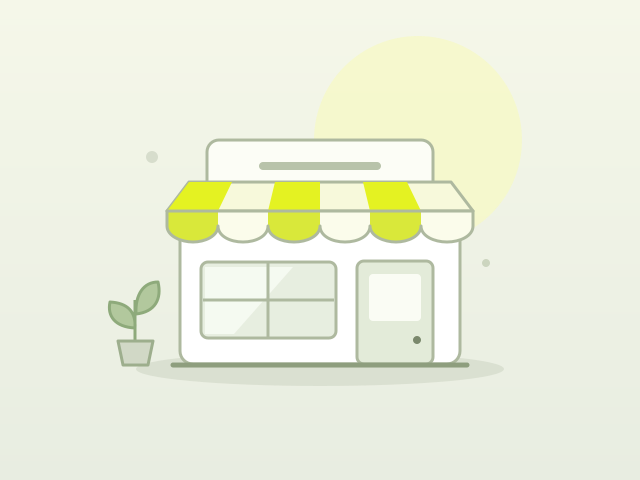
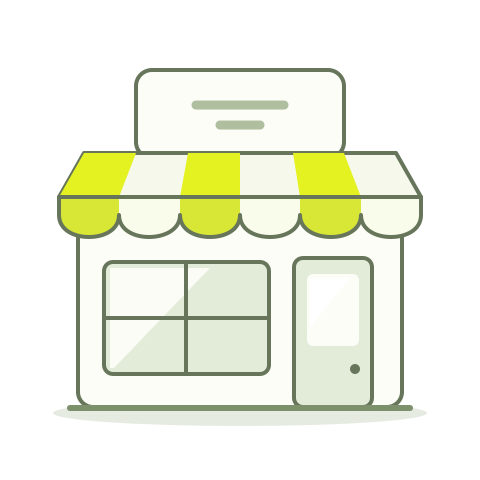
Fit category-specific shop placeholders inside mobile thumbnails

diff --git a/apps/mobile/app/(app)/leads/nearby.tsx b/apps/mobile/app/(app)/leads/nearby.tsx
@@ -34,6 +34,8 @@ type GeocodedLead = {
   isHot: boolean;
   isMine: boolean;
   photoUrl: string | null;
+  category: string | null;
+  kind: string | null;
   submitterName: string | null;
   submitterImage: string | null;
   latitude: number;
@@ -121,14 +123,14 @@ function ShopPin({
   onPress: () => void;
 }) {
   const [imageRevision, setImageRevision] = useState(0);
-  const track = useBriefTracking(`${selected}-${lead.photoUrl ?? ''}-${imageRevision}`);
+  const track = useBriefTracking(`${selected}-${lead.photoUrl ?? ''}-${lead.category ?? ''}-${lead.kind ?? ''}-${imageRevision}`);
   const imageFinished = useCallback(() => setImageRevision(value => value + 1), []);
   const live = isLiveOrYours(lead);
   const size = selected ? PIN_SELECTED : PIN;
 
   const photo = (box: number) => (
     <View style={[styles.photo, { width: box, height: box, borderRadius: box / 2 }]}>
-      <ShopImage uri={lead.photoUrl} name={lead.businessName} width={box} height={box} borderRadius={box / 2}
+      <ShopImage uri={lead.photoUrl} name={lead.businessName} category={lead.category} kind={lead.kind} width={box} height={box} borderRadius={box / 2}
         decorative onLoad={imageFinished} onError={imageFinished} />
     </View>
   );
@@ -202,14 +204,14 @@ function MeDot({ coordinate }: { coordinate: { latitude: number; longitude: numb
   );
 }
 
-function ShopTile({ uri, name, width, height }: { uri: string | null; name: string; width: number; height: number }) {
+function ShopTile({ uri, name, category, kind, width, height }: { uri: string | null; name: string; category: string | null; kind: string | null; width: number; height: number }) {
   return (
     <View
       style={[styles.tile, { width, height }]}
       accessibilityElementsHidden
       importantForAccessibility="no-hide-descendants"
     >
-      <ShopImage uri={uri} name={name} width="100%" height="100%" borderRadius={0} decorative />
+      <ShopImage uri={uri} name={name} category={category} kind={kind} width="100%" height="100%" borderRadius={0} decorative />
     </View>
   );
 }
@@ -258,6 +260,8 @@ export default function NearbyLeadsScreen() {
         isHot: !!l.isHot,
         isMine: !!l.isMine,
         photoUrl: (l.previewImageUrl as string | null | undefined) ?? null,
+        category: l.businessCategory?.trim() || l.businessType?.trim() || null,
+        kind: l.communityKind ?? null,
         submitterName: l.submittedBy?.displayName ?? null,
         submitterImage: l.submittedBy?.profileImage ?? null,
         addressString: fullAddress({ businessAddress: l.businessAddress, businessCity: l.businessCity }),
@@ -274,6 +278,8 @@ export default function NearbyLeadsScreen() {
         isHot: boolean;
         isMine: boolean;
         photoUrl: string | null;
+        category: string | null;
+        kind: string | null;
         submitterName: string | null;
         submitterImage: string | null;
         addressString: string | null;
@@ -312,6 +318,8 @@ export default function NearbyLeadsScreen() {
               isHot: l.isHot,
               isMine: l.isMine,
               photoUrl: l.photoUrl,
+              category: l.category,
+              kind: l.kind,
               submitterName: l.submitterName,
               submitterImage: l.submitterImage,
               latitude: m.latitude,
@@ -523,7 +531,7 @@ export default function NearbyLeadsScreen() {
                       cssInterop={false}
                       style={({ pressed }) => [styles.scard, shadow.soft, pressed ? { opacity: 0.85 } : null]}
                     >
-                      <ShopTile uri={lead.photoUrl} name={lead.businessName} width={184} height={104} />
+                      <ShopTile uri={lead.photoUrl} name={lead.businessName} category={lead.category} kind={lead.kind} width={184} height={104} />
                       <Text variant="body" weight="bold" numberOfLines={1} style={styles.scardTitle}>
                         {lead.businessName}
                       </Text>
@@ -557,7 +565,7 @@ function ActiveShop({
   return (
     <View style={styles.active}>
       <View style={styles.activeTop}>
-        <ShopTile uri={lead.photoUrl} name={lead.businessName} width={104} height={128} />
+        <ShopTile uri={lead.photoUrl} name={lead.businessName} category={lead.category} kind={lead.kind} width={104} height={128} />
         <View style={styles.activeText}>
           <Text variant="heading" numberOfLines={2}>
             {lead.businessName}

diff --git a/apps/mobile/__tests__/field-agent-lead-detail.test.tsx b/apps/mobile/__tests__/field-agent-lead-detail.test.tsx
@@ -3,6 +3,8 @@ import { BackHandler, Linking } from 'react-native';
 import { act, fireEvent, render, waitFor } from '@testing-library/react-native';
 import LeadDetailScreen from '../app/(app)/leads/[leadId]';
 import { Button } from '../components/v2';
+import { ShopImage } from '../components/ShopImage';
+import { getShopPlaceholder } from '../services/shopPlaceholder';
 import type { MapSearchArea } from '../services/workArea';
 
 const mockRouter = { push: jest.fn(), replace: jest.fn(), back: jest.fn(), canGoBack: jest.fn() };
@@ -70,6 +72,7 @@ function communityDetail() {
     },
     business: null, notes: [], interviewers: [], isMine: true, submittedBy: null, adminContent: null,
     photoUrl: 'https://images.example.com/shop.jpg', needsWebsite: true, hasLiveWebsite: false,
+    communityKind: 'sari_sari',
     websiteUrl: null, businessWebsite: null, claimedBy: null, claimExpiresAt: null,
     businessLatitude: 14.65, businessLongitude: 121.10,
     spottedBy: { creatorId: 'spotter-1', displayName: 'Ana S.', profileImage: null },
@@ -217,18 +220,21 @@ it.each([false, undefined])('does not render raw capture media without explicit 
   mockDetail.photoUrl = null;
   screen.rerender(<LeadDetailScreen />);
   expect(screen.queryByLabelText('Nena Store photo')).toBeNull();
-  expect(screen.getByLabelText('Nena Store photo unavailable').props.source).toEqual(require('../assets/placeholders/shop.png'));
+  expect(screen.getByLabelText('Nena Store photo unavailable').props.source).toEqual(getShopPlaceholder('Sari-sari', 'sari_sari'));
 });
 
 it('uses the local placeholder after a public photo fails without exposing capture media, then recovers on a new photo URL', () => {
   mockDetail.canViewCaptureMedia = false;
+  mockDetail.lead.businessCategory = 'Barber shop';
+  mockDetail.communityKind = 'beauty';
   mockDetail.business = {
-    businessName: 'Nena Store', ownerName: 'Nena', ownerPhone: '09171234567',
+    businessName: 'Nena Store', businessType: 'Services', ownerName: 'Nena', ownerPhone: '09171234567',
     photos: ['https://media.example.com/private-owner.jpg'], status: 'submitted',
   };
   const screen = render(<LeadDetailScreen />);
+  expect(screen.UNSAFE_getByType(ShopImage).props).toMatchObject({ category: 'Barber shop', kind: 'beauty' });
   fireEvent(screen.getByLabelText('Nena Store photo'), 'error', { nativeEvent: { error: 'Photo unavailable' } });
-  expect(screen.getByLabelText('Nena Store photo unavailable').props.source).toEqual(require('../assets/placeholders/shop.png'));
+  expect(screen.getByLabelText('Nena Store photo unavailable').props.source).toEqual(getShopPlaceholder('Barber shop', 'beauty'));
   expect(screen.queryByLabelText('Shop photo 1')).toBeNull();
   expect(screen.getByRole('header', { name: 'Nena Store' })).toBeTruthy();
   mockDetail.photoUrl = 'https://images.example.com/new-shop-photo.jpg';
@@ -236,6 +242,16 @@ it('uses the local placeholder after a public photo fails without exposing captu
   expect(screen.getByLabelText('Nena Store photo').props.source.uri).toBe(mockDetail.photoUrl);
   expect(screen.queryByLabelText('Nena Store photo unavailable')).toBeNull();
   expect(screen.queryByLabelText('Shop photo 1')).toBeNull();
+});
+
+it('uses the saved CRM category and coarse kind when a shop has no finer detail category', () => {
+  mockDetail.photoUrl = null;
+  mockDetail.lead.businessCategory = null;
+  mockDetail.communityKind = null;
+  mockCrm.leads[0] = { _id: 'lead-1', businessType: 'Auto repair', communityKind: 'repair' };
+  const screen = render(<LeadDetailScreen />);
+  expect(screen.UNSAFE_getByType(ShopImage).props).toMatchObject({ category: 'Auto repair', kind: 'repair' });
+  expect(screen.getByLabelText('Nena Store photo unavailable').props.source).toEqual(getShopPlaceholder('Auto repair', 'repair'));
 });
 
 it('keeps capture photos available in detail when the server explicitly permits the capturing agent or admin', () => {

diff --git a/apps/mobile/__tests__/community-finds-range.test.tsx b/apps/mobile/__tests__/community-finds-range.test.tsx
@@ -3,6 +3,7 @@ import { Image } from 'react-native';
 import { fireEvent, render } from '@testing-library/react-native';
 import { CommunityFinds } from '../components/field-agent/CommunityFinds';
 import { ShopImage } from '../components/ShopImage';
+import { getShopPlaceholder } from '../services/shopPlaceholder';
 import type { CommunityFind } from '../services/fieldAgentMap';
 import type { MapSearchArea } from '../services/workArea';
 
@@ -159,18 +160,28 @@ it('preserves the authenticated query guard while a distance choice changes', ()
 });
 
 it('shows a local storefront for missing/failed photos while preserving card navigation and recovering updated photos', () => {
-  mockLeads = [{ ...find('photo-shop', 0.5, 'Ramon Shop'), photoUrl: 'https://images.example.com/ramon.jpg' },
-    find('missing-photo', 0.6, 'Nena Store')];
+  mockLeads = [{ ...find('photo-shop', 0.5, 'Ramon Shop'), businessType: 'Barber shop', communityKind: 'beauty', photoUrl: 'https://images.example.com/ramon.jpg' },
+    { ...find('missing-photo', 0.6, 'Nena Store'), businessType: 'Sari-sari', communityKind: 'sari_sari' }];
   const screen = render(<CommunityFinds />);
   const tileImage = (name: string) => screen.UNSAFE_getAllByType(ShopImage).find(node => node.props.name === name)!;
-  expect(tileImage('Nena Store').findByType(Image).props.source).toEqual(require('../assets/placeholders/shop.png'));
+  expect(tileImage('Ramon Shop').props).toMatchObject({ category: 'Barber shop', kind: 'beauty' });
+  expect(tileImage('Nena Store').props).toMatchObject({ category: 'Sari-sari', kind: 'sari_sari' });
+  expect(tileImage('Nena Store').findByType(Image).props.source).toEqual(getShopPlaceholder('Sari-sari', 'sari_sari'));
   expect(tileImage('Ramon Shop').findByType(Image).props.source.uri).toBe('https://images.example.com/ramon.jpg');
   fireEvent(tileImage('Ramon Shop').findByType(Image), 'error', { nativeEvent: { error: 'Photo unavailable' } });
-  expect(tileImage('Ramon Shop').findByType(Image).props.source).toEqual(require('../assets/placeholders/shop.png'));
+  expect(tileImage('Ramon Shop').findByType(Image).props.source).toEqual(getShopPlaceholder('Barber shop', 'beauty'));
   fireEvent.press(screen.getByRole('button', { name: /^Ramon Shop,/ }));
   expect(mockPush).toHaveBeenCalledWith('/(app)/leads/photo-shop');
   mockLeads = mockLeads.map(lead => lead._id === 'photo-shop' ? { ...lead, photoUrl: 'https://images.example.com/replaced.jpg' } : lead);
   screen.rerender(<CommunityFinds />);
   expect(tileImage('Ramon Shop').findByType(Image).props.source.uri).toBe('https://images.example.com/replaced.jpg');
   expect(screen.getByRole('button', { name: /^Nena Store,/ })).toBeTruthy();
+});
+
+it('uses stored category metadata even when a business name suggests a different kind of shop', () => {
+  mockLeads = [{ ...find('repair', 0.5, 'Barber Food Store'), businessType: 'Auto repair', communityKind: 'repair' }];
+  const screen = render(<CommunityFinds />);
+  const image = screen.UNSAFE_getByType(ShopImage);
+  expect(image.props).toMatchObject({ category: 'Auto repair', kind: 'repair', name: 'Barber Food Store' });
+  expect(image.findByType(Image).props.source).toEqual(getShopPlaceholder('Auto repair', 'repair'));
 });

diff --git a/apps/mobile/components/field-agent/FieldAgentMap.tsx b/apps/mobile/components/field-agent/FieldAgentMap.tsx
@@ -445,19 +445,18 @@ export function FieldAgentMap({ creator, userImage, monthlyEarnings, unreadCount
 }
 
 function ShopPhoto({ shop, width, height }: { shop: FieldAgentShop; width: number; height: number }) {
-  return <ShopImage uri={shop.photoUrl} name={shop.name} width={width} height={height} decorative />;
+  return <ShopImage uri={shop.photoUrl} name={shop.name} category={shop.category} kind={shop.kind} width={width} height={height} decorative />;
 }
 
 function PhotoPin({ shop, selected, onPress }: { shop: FieldAgentShop; selected: boolean; onPress: () => void }) {
   const [tracking, setTracking] = useState(true);
-  const [failed, setFailed] = useState(false);
-  const [loaded, setLoaded] = useState(false);
-  useEffect(() => { setFailed(false); setLoaded(false); }, [shop.photoUrl]);
+  const [imageRevision, setImageRevision] = useState(0);
+  const imageFinished = useCallback(() => setImageRevision(value => value + 1), []);
   useEffect(() => {
     setTracking(true);
     const timer = setTimeout(() => setTracking(false), 800);
     return () => clearTimeout(timer);
-  }, [shop.photoUrl, selected, shop.isMine, failed, loaded]);
+  }, [shop.photoUrl, shop.category, shop.kind, selected, shop.isMine, imageRevision]);
   const size = selected ? 60 : 48;
   return <Marker coordinate={{ latitude: shop.latitude, longitude: shop.longitude }}
     onPress={(event) => { event.stopPropagation(); onPress(); }}
@@ -467,8 +466,8 @@ function PhotoPin({ shop, selected, onPress }: { shop: FieldAgentShop; selected:
       <View style={[styles.pin, { width: size, height: size, borderRadius: size / 2 },
         selected ? styles.pinSelected : shop.isMine || shop.hasLiveWebsite ? styles.pinYours : shop.needsWebsite === true ? styles.pinNeed : styles.pinUnknown]}>
         <View style={[styles.pinPhoto, { width: size - 10, height: size - 10, borderRadius: (size - 10) / 2 }]}>
-          <ShopImage uri={shop.photoUrl} name={shop.name} width={size - 10} height={size - 10} borderRadius={0}
-            decorative onLoad={() => setLoaded(true)} onError={() => setFailed(true)} />
+          <ShopImage uri={shop.photoUrl} name={shop.name} category={shop.category} kind={shop.kind} width={size - 10} height={size - 10} borderRadius={0}
+            decorative onLoad={imageFinished} onError={imageFinished} />
         </View>
       </View>
       {selected ? <View style={styles.pinLabel}><Text variant="label" tone="onDark" numberOfLines={1}>{shop.name}</Text></View> : null}

diff --git a/apps/mobile/__tests__/shop-placeholder.test.ts b/apps/mobile/__tests__/shop-placeholder.test.ts
@@ -1,0 +1,43 @@
+import { getShopPlaceholder, shopPlaceholderKind } from '../services/shopPlaceholder';
+
+jest.mock('../assets/placeholders/barber.png', () => ({ uri: 'placeholder:barber' }));
+jest.mock('../assets/placeholders/food.png', () => ({ uri: 'placeholder:food' }));
+jest.mock('../assets/placeholders/sari-sari.png', () => ({ uri: 'placeholder:sari_sari' }));
+jest.mock('../assets/placeholders/beauty.png', () => ({ uri: 'placeholder:beauty' }));
+jest.mock('../assets/placeholders/repair.png', () => ({ uri: 'placeholder:repair' }));
+jest.mock('../assets/placeholders/shop.png', () => ({ uri: 'placeholder:other' }));
+
+it.each([
+  ['Barbershop', 'beauty', 'barber'],
+  ['BARBER SHOP', 'other', 'barber'],
+  ['Barber/Salon', undefined, 'barber'],
+  ['Hair salon', undefined, 'beauty'],
+  ['Nail Salon', 'other', 'beauty'],
+  ['Spa/Massage', undefined, 'beauty'],
+  ['Food shop', 'other', 'food'],
+  ['Restaurant', 'beauty', 'food'],
+  ['Café', undefined, 'food'],
+  ['Coffee shop', undefined, 'food'],
+  ['Bakery', undefined, 'food'],
+  ['Bakeshop', undefined, 'food'],
+  ['Carinderia', undefined, 'food'],
+  ['Sari-sari store', undefined, 'sari_sari'],
+  ['sari_sari', undefined, 'sari_sari'],
+  ['Grocery', undefined, 'sari_sari'],
+  ['Convenience store', undefined, 'sari_sari'],
+  ['Mini mart', undefined, 'sari_sari'],
+  ['Auto Shop', undefined, 'repair'],
+  ['Auto repair', undefined, 'repair'],
+  ['Car wash', undefined, 'repair'],
+  ['Vulcanizing shop', undefined, 'repair'],
+  ['Other', 'beauty', 'other'],
+  ['Unclassified', 'food', 'food'],
+  [null, 'sari_sari', 'sari_sari'],
+  ['', 'beauty', 'beauty'],
+  [undefined, 'repair', 'repair'],
+  ['Unknown category', undefined, 'other'],
+  [undefined, undefined, 'other'],
+])('selects %s with fallback %s as %s', (category, kind, expected) => {
+  expect(shopPlaceholderKind(category, kind)).toBe(expected);
+  expect(getShopPlaceholder(category, kind)).toEqual({ uri: `placeholder:${expected}` });
+});

diff --git a/apps/mobile/services/shopPlaceholder.ts b/apps/mobile/services/shopPlaceholder.ts
@@ -1,0 +1,33 @@
+import type { ImageSourcePropType } from 'react-native';
+
+export type ShopPlaceholderKind = 'barber' | 'food' | 'sari_sari' | 'beauty' | 'repair' | 'other';
+
+function recognizedCategory(value?: string | null): ShopPlaceholderKind | null {
+  const category = (value ?? '').normalize('NFD').replace(/[\u0300-\u036f]/g, '').toLowerCase().replace(/[_-]+/g, ' ').replace(/\s+/g, ' ').trim();
+  if (!category) return null;
+  // Keep specific trades ahead of broader buckets such as "beauty".
+  if (/\b(barber\w*|barbero)\b/.test(category)) return 'barber';
+  if (/\b(food|restaurant|cafe|coffee|bakery|bakeshop|eatery|carinderia|karinderya|canteen|fast food)\b/.test(category)) return 'food';
+  if (/\b(sari\s*sari|grocery|convenience|mini\s*mart|supermarket|general store)\b/.test(category) || category === 'store') return 'sari_sari';
+  if (/\b(beauty|salon|hair\w*|nail\w*|spa)\b/.test(category)) return 'beauty';
+  if (/\b(repair|auto\w*|mechanic\w*|car\s*wash|vulcaniz\w*|tire\w*|tyre\w*)\b/.test(category)) return 'repair';
+  return category === 'other' ? 'other' : null;
+}
+
+/** Stored category wins over the broader kind; business names never determine the art. */
+export function shopPlaceholderKind(category?: string | null, kind?: string | null): ShopPlaceholderKind {
+  return recognizedCategory(category) ?? recognizedCategory(kind) ?? 'other';
+}
+
+const SOURCES: Record<ShopPlaceholderKind, ImageSourcePropType> = {
+  barber: require('../assets/placeholders/barber.png'),
+  food: require('../assets/placeholders/food.png'),
+  sari_sari: require('../assets/placeholders/sari-sari.png'),
+  beauty: require('../assets/placeholders/beauty.png'),
+  repair: require('../assets/placeholders/repair.png'),
+  other: require('../assets/placeholders/shop.png'),
+};
+
+export function getShopPlaceholder(category?: string | null, kind?: string | null): ImageSourcePropType {
+  return SOURCES[shopPlaceholderKind(category, kind)];
+}

diff --git a/apps/mobile/components/ShopImage.tsx b/apps/mobile/components/ShopImage.tsx
@@ -1,11 +1,13 @@
 import React, { useState } from 'react';
 import { Image, StyleSheet, View, type DimensionValue, type StyleProp, type ViewStyle } from 'react-native';
 import { colors } from '../theme/v2';
+import { getShopPlaceholder } from '../services/shopPlaceholder';
 
-const PLACEHOLDER = require('../assets/placeholders/shop.png');
 type Props = {
   uri?: string | null;
   name?: string;
+  category?: string | null;
+  kind?: string | null;
   width?: DimensionValue;
   height?: DimensionValue;
   borderRadius?: number;
@@ -22,12 +24,12 @@ export function ShopImage(props: Props) {
   return <ShopImageContent key={uri ?? 'no-photo'} {...props} uri={uri} />;
 }
 
-function ShopImageContent({ uri, name = 'Shop', width = '100%', height = '100%', borderRadius = 16, style, decorative = false, onLoad, onError }: Props) {
+function ShopImageContent({ uri, name = 'Shop', category, kind, width = '100%', height = '100%', borderRadius = 16, style, decorative = false, onLoad, onError }: Props) {
   const [failed, setFailed] = useState(false);
   const fallback = !uri || failed;
   return <View style={[styles.frame, { width, height, borderRadius }, style]}
     accessibilityElementsHidden={decorative} importantForAccessibility={decorative ? 'no-hide-descendants' : 'auto'}>
-    <Image source={fallback ? PLACEHOLDER : { uri }} style={StyleSheet.absoluteFill} resizeMode="cover"
+    <Image source={fallback ? getShopPlaceholder(category, kind) : { uri }} style={StyleSheet.absoluteFill} resizeMode={fallback ? 'contain' : 'cover'}
       accessible={!decorative} accessibilityRole="image" accessibilityLabel={`${name} ${fallback ? 'photo unavailable' : 'photo'}`}
       onLoad={onLoad} onError={() => { if (!fallback) { setFailed(true); onError?.(); } }} />
   </View>;

diff --git a/apps/mobile/app/(app)/leads/[leadId].tsx b/apps/mobile/app/(app)/leads/[leadId].tsx
@@ -304,6 +304,8 @@ export default function LeadDetailScreen() {
   const canViewCaptureMedia = detail.canViewCaptureMedia === true;
   const heroUri: string | null = detail.photoUrl || adminContent?.previewImageUrl
     || (canViewCaptureMedia ? business?.photos?.[0] : null) || null;
+  const heroCategory: string | null = lead.businessCategory?.trim() || business?.businessType?.trim() || crmLead?.businessType?.trim() || null;
+  const heroKind: string | null = detail.communityKind ?? lead.communityKind ?? crmLead?.communityKind ?? null;
   const status = STATUS_OPTIONS.find((option) => option.key === lead.status)
     ?? { label: 'Status unavailable', tone: 'muted' as const };
   const hasLiveWebsite = typeof detail.hasLiveWebsite === 'boolean' ? detail.hasLiveWebsite
@@ -368,7 +370,7 @@ export default function LeadDetailScreen() {
       ) : null}
       {/* Public/authorized photo, or the shared local placeholder, with the status chip. */}
       <View style={styles.hero}>
-        <ShopImage uri={heroUri} name={shopName} width="100%" height="100%" borderRadius={0} />
+        <ShopImage uri={heroUri} name={shopName} category={heroCategory} kind={heroKind} width="100%" height="100%" borderRadius={0} />
         <Chip label={heroLabel} tone={hasLiveWebsite || detail.needsWebsite === true ? 'ok' : status.tone} style={styles.heroChip} />
       </View>
 

diff --git a/apps/mobile/__tests__/shop-image.test.tsx b/apps/mobile/__tests__/shop-image.test.tsx
@@ -16,9 +16,17 @@ it('replaces a broken remote photo locally without retrying the broken URL', () 
   const fallback = screen.getByLabelText('Mika’s shop photo unavailable');
   expect(fallback.props.source).toEqual(placeholder);
   expect(onError).toHaveBeenCalledTimes(1);
+  expect(fallback.props.resizeMode).toBe('contain');
   fireEvent(fallback, 'error', { nativeEvent: { error: 'Unexpected local error' } });
   expect(onError).toHaveBeenCalledTimes(1);
   expect(screen.getByLabelText('Mika’s shop photo unavailable').props.source).toEqual(placeholder);
+});
+
+it('fits placeholder art inside the thumbnail while keeping real photos edge to edge', () => {
+  const screen = render(<ShopImage name="Shop" width={184} height={100} category="Barbershop" />);
+  expect(screen.getByLabelText('Shop photo unavailable').props.resizeMode).toBe('contain');
+  screen.rerender(<ShopImage name="Shop" width={184} height={100} uri="https://example.com/shop.jpg" category="Barbershop" />);
+  expect(screen.getByLabelText('Shop photo').props.resizeMode).toBe('cover');
 });
 
 it('loads a newly supplied photo after the old URL failed', () => {

diff --git a/apps/mobile/components/field-agent/CommunityFinds.tsx b/apps/mobile/components/field-agent/CommunityFinds.tsx
@@ -108,7 +108,8 @@ function FindTile({ lead, imageHeight, distanceLabel, onPress }: {
       accessibilityLabel={`${lead.businessName || 'Shop'}, ${label}${person ? `, spotted by ${person.displayName}` : ''}`}
       cssInterop={false} style={({ pressed }) => [styles.tile, pressed ? { opacity: 0.75 } : null]}>
       <View style={[styles.photo, { height: imageHeight }]}>
-        <ShopImage uri={photo} name={lead.businessName || 'Shop'} width="100%" height="100%" borderRadius={0} decorative />
+        <ShopImage uri={photo} name={lead.businessName || 'Shop'} category={lead.businessType} kind={lead.communityKind}
+          width="100%" height="100%" borderRadius={0} decorative />
         <View style={styles.tags}>
           <View style={[styles.tag, lead.hasLiveWebsite ? styles.liveTag : null]}>
             <Text variant="label" weight="bold" style={styles.tagText}>{label}</Text>
